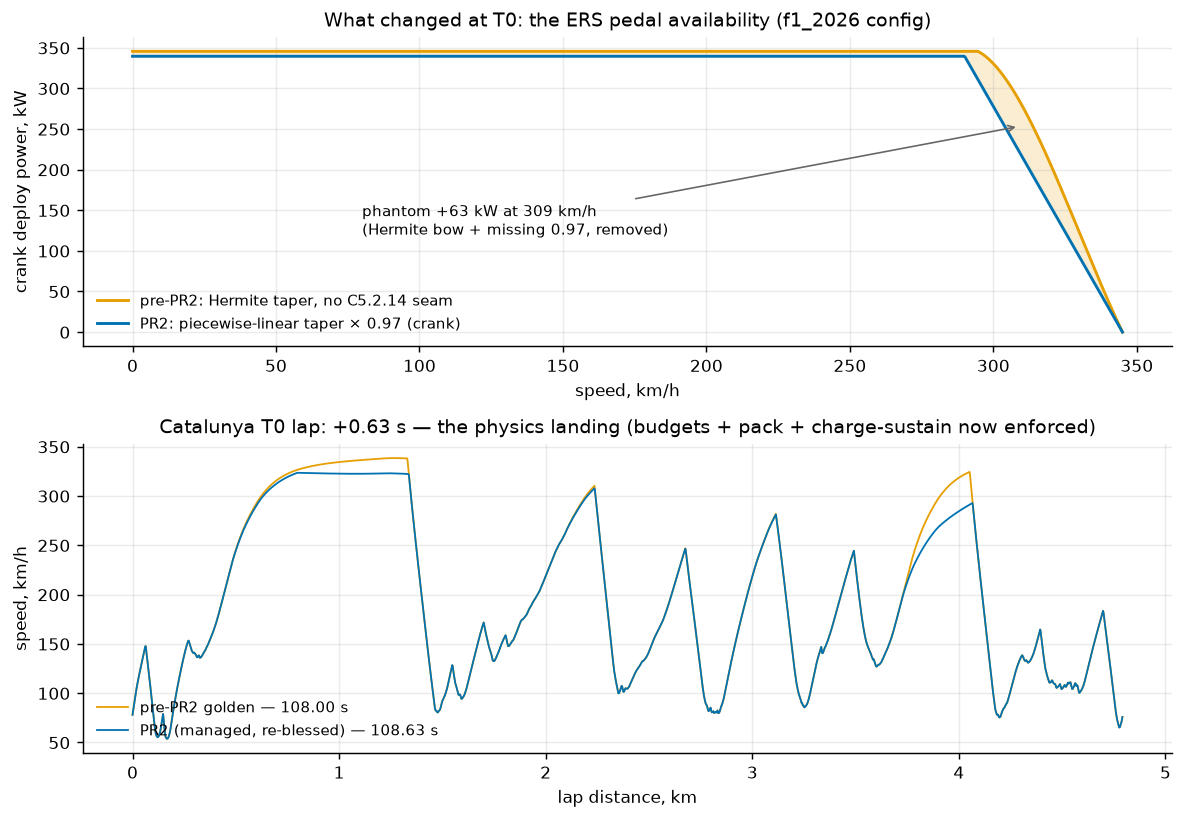
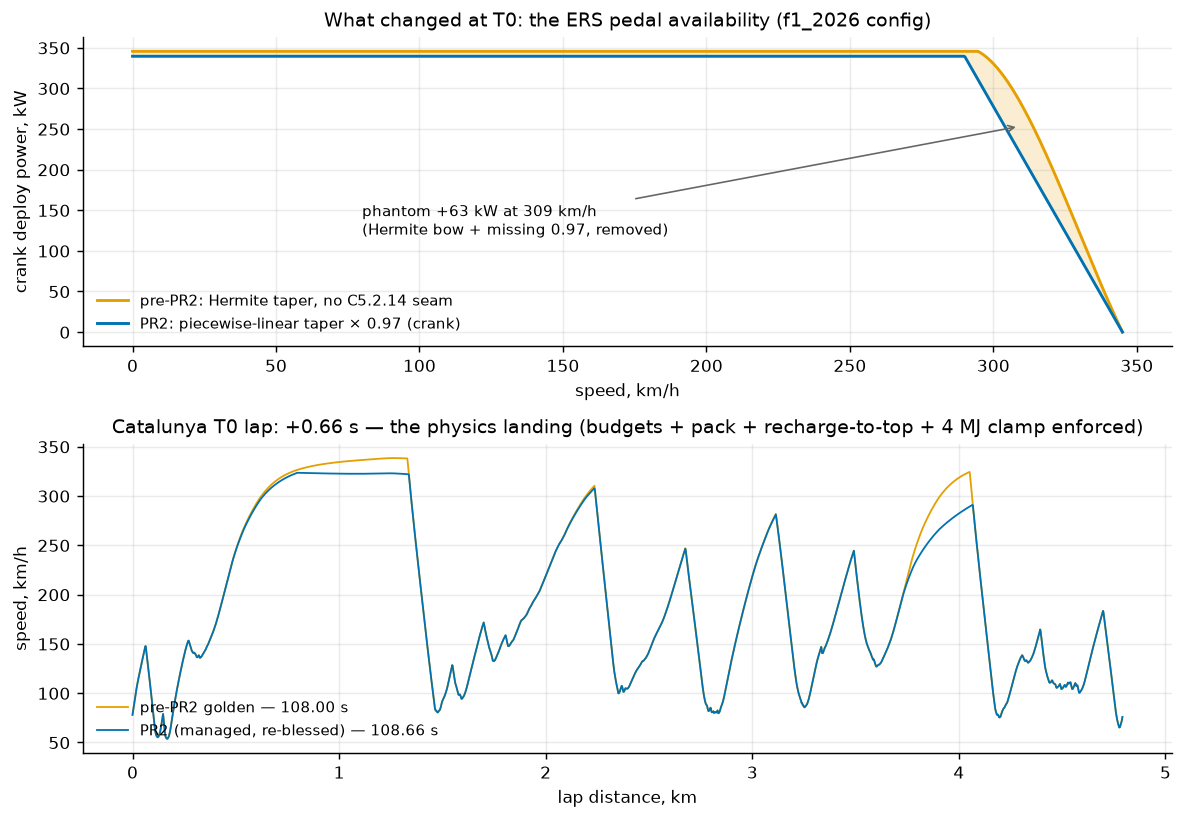
feat(qss): recharge to the usable-window top + clamp the FIA C5.2.9 4 MJ swing
Default `recharge_target_soc` becomes the TOP of the pack's usable `soc_window` (was mid-window):
the recharge phases steer the store toward the maximum it can hold. SoC settings (recharge target,
initial SoC, window min/max) are pack/car properties.

The FIA C5.2.9 on-track SoC window (max − min ≤ 4 MJ) is now enforced by CLAMPING the pack to its
usable `soc_window` each manager step, not merely recorded (reverses D-M6-3). `Pack::step_power`
clamps SoC to [0, 1] only, so a segment starting just inside a window edge overshot it by one step
(the pre-amendment 4.03 MJ swing). Clamping to `[soc_lo, soc_hi]` bounds the on-track swing to the
window span; the f1 pack's window is sized to exactly 4 MJ, so the regulation holds by
construction. The 4 MJ is thus expressed by the F1 pack's window sizing, separate from the global
SoC settings — a pack physically larger than the reg would need a separate, tighter swing clip.
Scoped to the manager (`ers_realize`) path, so no-ers packs stay byte-identical.

Result: the f1_2026 Catalunya T0 lap sweeps the full window [0.2, 0.9] (was 0.199/0.904), on-track
swing exactly 4.00 MJ (was 4.03), lap 108.66 s. Tests updated (manager deploy-boundary at the
window top, rulebook default, ers_march swing-≤-window + recorded-brackets-channel); f1 golden
re-blessed; figures + theory-page QSS section updated. limebeer/model3 remain byte-identical.

Changed region(s): [[0.0938, 0.4878, 0.9688, 0.5488], [0.7812, 0.6098, 0.8125, 0.6707]]

diff --git a/crates/outlap-qss/tests/ers_march.rs b/crates/outlap-qss/tests/ers_march.rs
@@ -236,12 +236,31 @@ fn f1_lap_deploys_under_the_curve_and_harvests_under_braking() {
         .any(|i| ers.harvest_power_w[i] > 0.0 && soc[i + 1] > soc[i]);
     assert!(charged, "a harvesting segment must raise the entry SoC");
 
-    // The SoC trace is physical and the recorded C5.2.9 swing is consistent with it.
-    assert!(soc.iter().all(|s| (0.0..=1.0).contains(s)));
+    // The SoC trace is physical, stays inside the usable window (the C5.2.9 clamp), and the
+    // recorded swing brackets the visible channel. The stats see every post-step state; the
+    // channel logs ENTRY states, so on a closed lap it misses the final segment — the stats
+    // therefore bracket the channel min/max, never sit inside it.
+    let [win_lo, win_hi] = h.pack.soc_window();
+    assert!(soc
+        .iter()
+        .all(|s| (win_lo - 1e-9..=win_hi + 1e-9).contains(s)));
     let (lo, hi) = soc
         .iter()
         .fold((f64::MAX, f64::MIN), |(lo, hi), &s| (lo.min(s), hi.max(s)));
-    assert!((ers.soc_min - lo).abs() < 1e-12 && (ers.soc_max - hi).abs() < 1e-9);
+    assert!(
+        ers.soc_min <= lo + 1e-12 && ers.soc_max >= hi - 1e-9,
+        "recorded swing [{:.4}, {:.4}] must bracket the channel [{lo:.4}, {hi:.4}]",
+        ers.soc_min,
+        ers.soc_max
+    );
+    // The on-track SoC swing is bounded by the usable window span — for f1 the FIA C5.2.9 ≤ 4 MJ
+    // recharge window, now clamped rather than only recorded (per the recharge-to-top default).
+    assert!(
+        ers.soc_max - ers.soc_min <= (win_hi - win_lo) + 1e-9,
+        "on-track swing {:.4} exceeds the usable window span {:.4}",
+        ers.soc_max - ers.soc_min,
+        win_hi - win_lo
+    );
 }
 
 #[test]

diff --git a/crates/outlap-powertrain/src/rulebook.rs b/crates/outlap-powertrain/src/rulebook.rs
@@ -82,7 +82,9 @@ pub struct ErsRulebook<T> {
     elec_mech_factor: T,
     /// Whether the automated recharge phases (part-throttle / full-throttle back-drive) run.
     recharge_phases: bool,
-    /// Target pack SoC the recharge paths steer toward (default: mid `soc_window`).
+    /// Target pack SoC the recharge paths steer toward (default: the TOP of `soc_window` — the
+    /// recharge phases keep the store as full as the pack allows; the on-track energy swing is
+    /// bounded by the usable window, not by this target).
     recharge_target_soc: T,
     /// C5.12.4 maximum initial power-demand step, W.
     ramp_initial_step_w: T,
@@ -129,8 +131,7 @@ impl<T: Float> ErsRulebook<T> {
         });
         let torque_env = torque_env.transpose()?;
 
-        let [soc_lo, soc_hi] = ers.es.soc_window;
-        let two = c::<T>(2.0);
+        let [_soc_lo, soc_hi] = ers.es.soc_window;
         Ok(Self {
             p_deploy_cap_w: c(ers.deployment.power_limit_kw * 1e3),
             deploy_taper,
@@ -149,7 +150,7 @@ impl<T: Float> ErsRulebook<T> {
             recharge_target_soc: ers
                 .recovery
                 .recharge_target_soc
-                .map_or_else(|| (c::<T>(soc_lo) + c::<T>(soc_hi)) / two, c),
+                .map_or_else(|| c::<T>(soc_hi), c),
             ramp_initial_step_w: ers
                 .recovery
                 .ramp_initial_step_kw

diff --git a/crates/outlap-powertrain/tests/manager.rs b/crates/outlap-powertrain/tests/manager.rs
@@ -265,7 +265,7 @@ fn recharge_ramp_limits_are_respected() {
         brake_demand_w: 0.0,
         mech_regen_envelope_w: 400e3,
         ice_surplus_w: 150e3,
-        soc: 0.3, // below the 0.55 mid-window target → recharge wanted
+        soc: 0.3, // below the recharge target (window top) → recharge wanted
         override_active: false,
         prev_k_power_w: 350e3, // arriving from full deployment
         ramp_reduced_w: 0.0,
@@ -329,8 +329,10 @@ fn part_throttle_harvests_the_demand_gap() {
     let cmd = mgr.decide(&inp, &ledger);
     assert_eq!(cmd.mode, ErsMode::HarvestPartThrottle);
     assert_eq!(cmd.harvest_w, 120e3 * 0.97);
-    // At or above the recharge target the same step deploys instead.
-    let above = DecideInput { soc: 0.7, ..inp };
+    // At or above the recharge target the same step deploys instead. The default target is now the
+    // TOP of the usable window (0.9 for the f1 pack), so the store recharges toward full — the
+    // deploy-instead boundary sits at the window top.
+    let above = DecideInput { soc: 0.9, ..inp };
     let cmd = mgr.decide(&above, &ledger);
     assert_eq!(cmd.mode, ErsMode::Deploy);
 }

diff --git a/crates/outlap-qss/src/qss.rs b/crates/outlap-qss/src/qss.rs
@@ -573,6 +573,14 @@ fn ers_realize(
         // Idle: the pack still relaxes (RC decay + thermal node) over the segment.
         c.pack.step_power(st, 0.0, dt);
     }
+    // Hold the pack inside its usable window. `step_power` clamps SoC to [0, 1] only, so a segment
+    // that begins just inside the edge (where the acceptance/discharge ceiling is still open) can
+    // overshoot it by one step. Clamping to `[soc_lo, soc_hi]` bounds the on-track SoC swing to the
+    // usable window span — the FIA C5.2.9 ≤ 4 MJ recharge window for the f1 pack, whose window is
+    // sized to exactly that (D-M6-3, now clamped rather than only recorded). Scoped to the manager
+    // path, so no-ers packs stay bit-identical.
+    let [soc_lo, soc_hi] = c.pack.soc_window();
+    st.soc = st.soc.clamp(soc_lo, soc_hi);
     bufs.deploy_w[i] = realized.deploy_w;
     bufs.harvest_w[i] = realized.harvest_w;
     realized

diff --git a/crates/outlap-powertrain/tests/rulebook.rs b/crates/outlap-powertrain/tests/rulebook.rs
@@ -163,9 +163,10 @@ fn gt_hybrid_option_paths() {
     let v = 285.0 * KPH_TO_MPS; // midpoint of [250, 320]
     assert!((rb.deploy_cap_electrical_w(v, false) - 120e3 * 0.4).abs() < 1e-6);
 
-    // Reg defaults fill the absent recharge fields; recharge phases stay off.
+    // Reg defaults fill the absent recharge fields; recharge phases stay off, and the recharge
+    // target defaults to the TOP of the usable window (recharge toward the max the pack allows).
     assert!(!rb.recharge_phases());
-    assert_eq!(rb.recharge_target_soc(), (0.3 + 0.85) / 2.0);
+    assert_eq!(rb.recharge_target_soc(), 0.85);
     assert_eq!(rb.ramp_allowed_reduction_w(0.0, 0.1), 150e3);
     assert_eq!(rb.ramp_allowed_reduction_w(150e3, 0.1), 50e3 * 0.1);
 }

diff --git a/docs/theory/ers-energy-manager.md b/docs/theory/ers-energy-manager.md
@@ -125,8 +125,9 @@ step-boundary events, §11.2):
 1. **Braking** → harvest through the brake-blend path:
    `P_elec = min(0.97·min(P_regen_envelope, P_brake_demand), P_harvest_cap, budget headroom)`.
 2. **Driving with recharge wanted** — recharge phases enabled, SoC below the configurable target
-   (`recovery.recharge_target_soc`, default mid-window: the 2026 ECU's selectable "Recharge
-   target"), ICE surplus available, budget left:
+   (`recovery.recharge_target_soc`, **default: the top of the usable `soc_window`** — the store
+   recharges toward the maximum the pack allows; a pack/car property, overridable per vehicle),
+   ICE surplus available, budget left:
    - *part throttle*: the ICE covers the driver's demand gap and the K harvests the surplus;
    - *full throttle* ("super-clip"): the K's demand ramps down from the previous level toward
      back-drive, rate-limited by the C5.12 bounds — initial step ≤ 150 kW, thereafter ≤ 50 kW/s,
@@ -203,15 +204,21 @@ The per-lap ledger banks the REALIZED command (post pack-clip) — never more th
 budgets hold by construction and lap energy closure is exact. Attribution follows D-M6-10: the
 pack exchanges only the manager's electrical deploy/harvest power; the ICE covers the rest of
 traction (this replaces the pre-M6 full-draw simplification for hybrids). The march is governed
-by a deeper fixed outer-iteration count than the derate marches (6 vs 2): the deploy/harvest
-schedule reshapes the very profile it was decided on, and a SoC-starved lap needs several passes
-to settle — measured residuals are recorded per lap (`max |Δscale|`, `max |Δdeploy force|`,
-`|Δlap time|`), and every no-manager path keeps the original count bit-identically.
+by a deeper fixed outer-iteration count than the derate marches (8 vs 2): the deploy/harvest
+schedule reshapes the very profile it was decided on, and at the charge-sustain equilibrium a
+straight station is bistable between deploy and super-clip harvest — so the solver-fed deploy
+slice is under-relaxed (ω = 0.5) to converge the fixed point. Measured residuals are recorded per
+lap (`max |Δscale|`, `max |Δdeploy force|`, `|Δlap time|`), and every no-manager path keeps the
+original count bit-identically.
 
-The FIA C5.2.9 usable-window rule (max − min SoC ≤ 4 MJ on track) is **recorded, not clamped**:
-the lap reports its on-track SoC swing, and the load pipeline cross-checks the vehicle's declared
-`ers.es` window against the referenced battery document (window agreement exact; usable-window
-energy within 1% of `(span) × e_pack_wh`).
+The FIA C5.2.9 usable-window rule (max − min SoC ≤ 4 MJ on track) is enforced by **clamping the
+pack to its usable `soc_window`** each step: the on-track SoC swing is bounded by the window span,
+so the f1 pack — whose window is sized to exactly 4 MJ — cannot exceed the regulation. (The pack's
+`soc_window` is a physical car/battery property; the 4 MJ is an F1 regulation expressed by sizing
+that window to it. A pack physically larger than the reg would need a separate, tighter swing
+clip.) The lap still reports its on-track swing in MJ, and the load pipeline cross-checks the
+vehicle's declared `ers.es` window against the referenced battery document (window agreement
+exact; usable-window energy within 1% of `(span) × e_pack_wh`).
 
 ## Not modelled (v1)
 